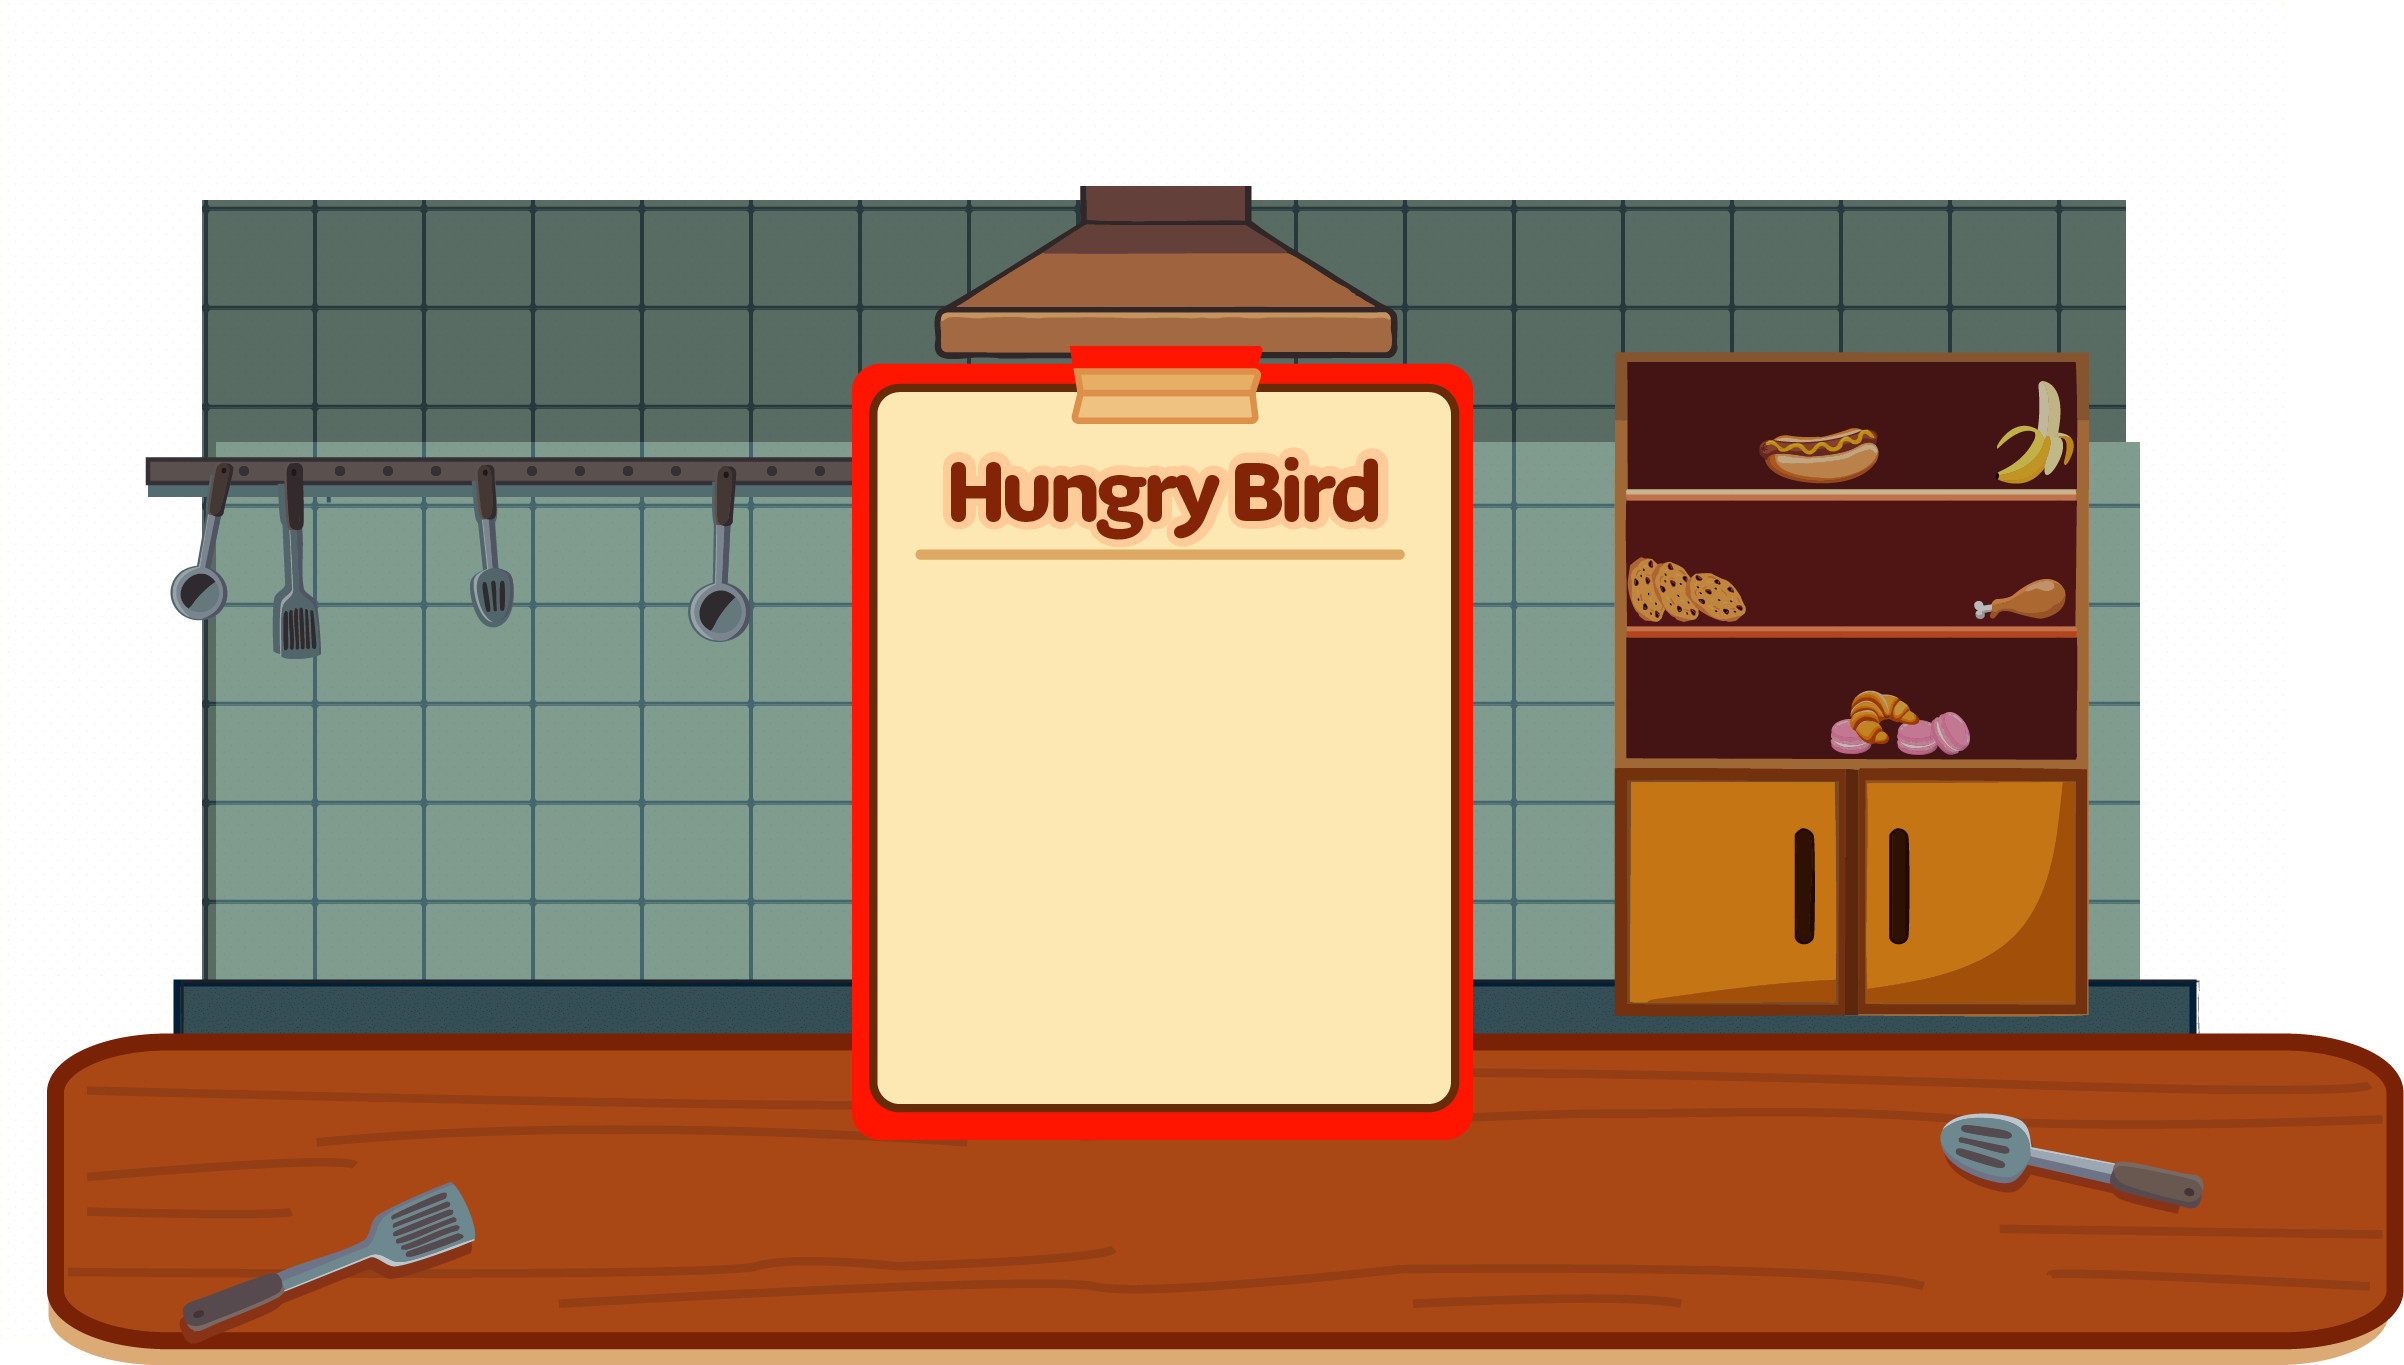
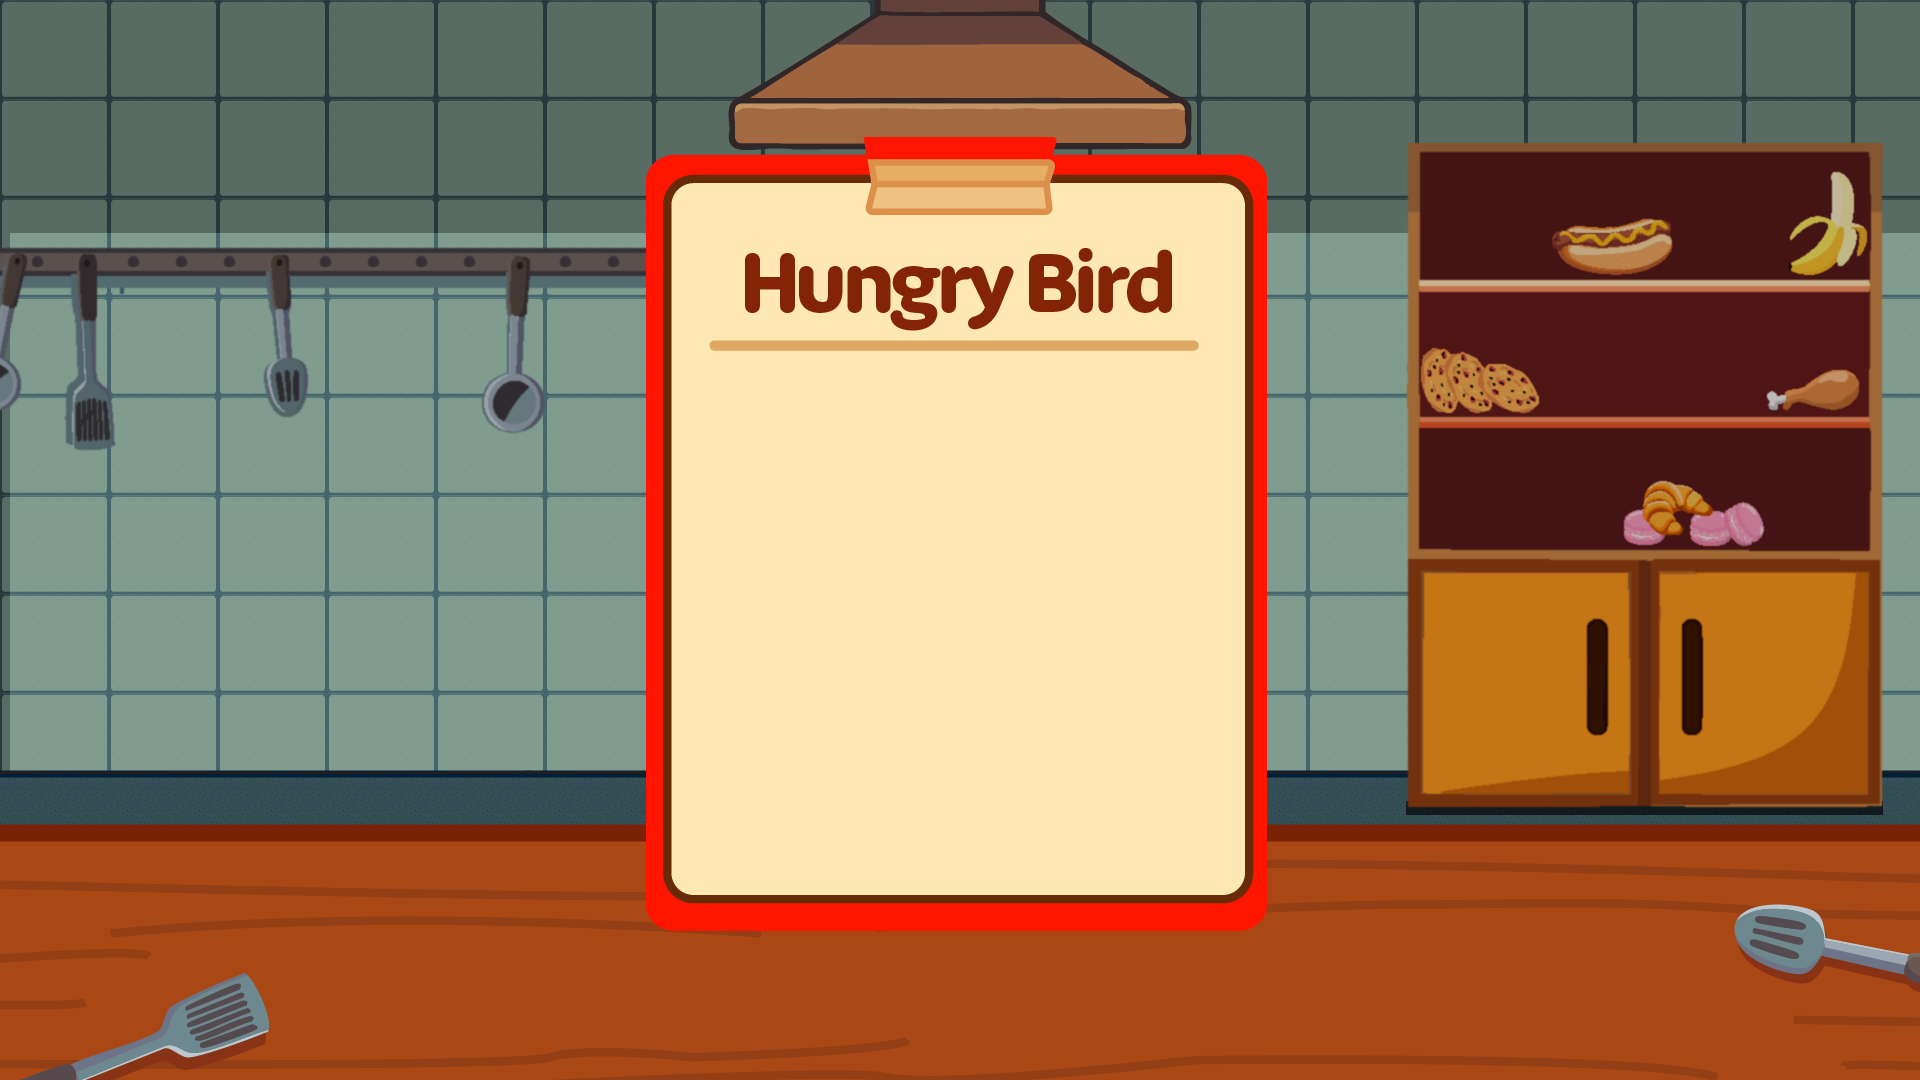
zgue

diff --git a/globals.py b/globals.py
@@ -20,7 +20,7 @@ font = pygame.font.Font(None, 58)
 
 
 # Fonds d'écran
-fond = pygame.image.load("Ressources/image/intro_bckg.jpg")
+fond = pygame.image.load("Ressources/image/Menu/Decors.png")
 fond = pygame.transform.scale(fond, (WIDTH, HEIGHT))
 
 
